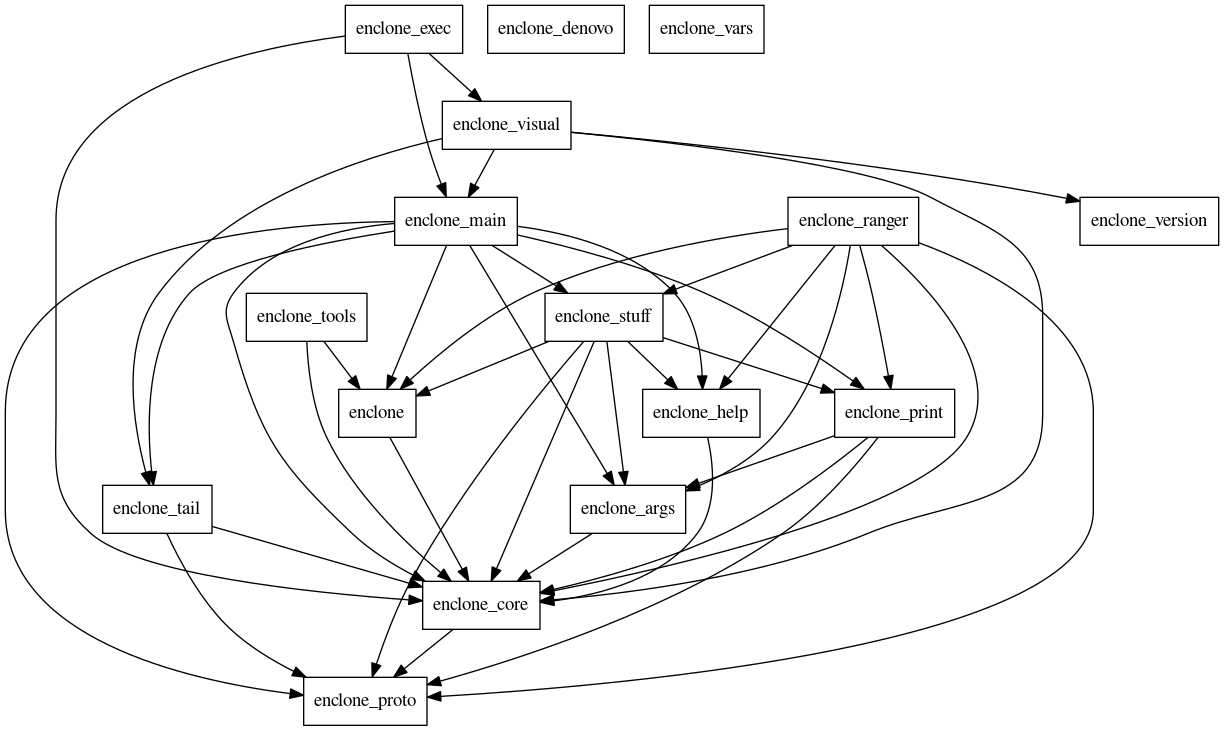
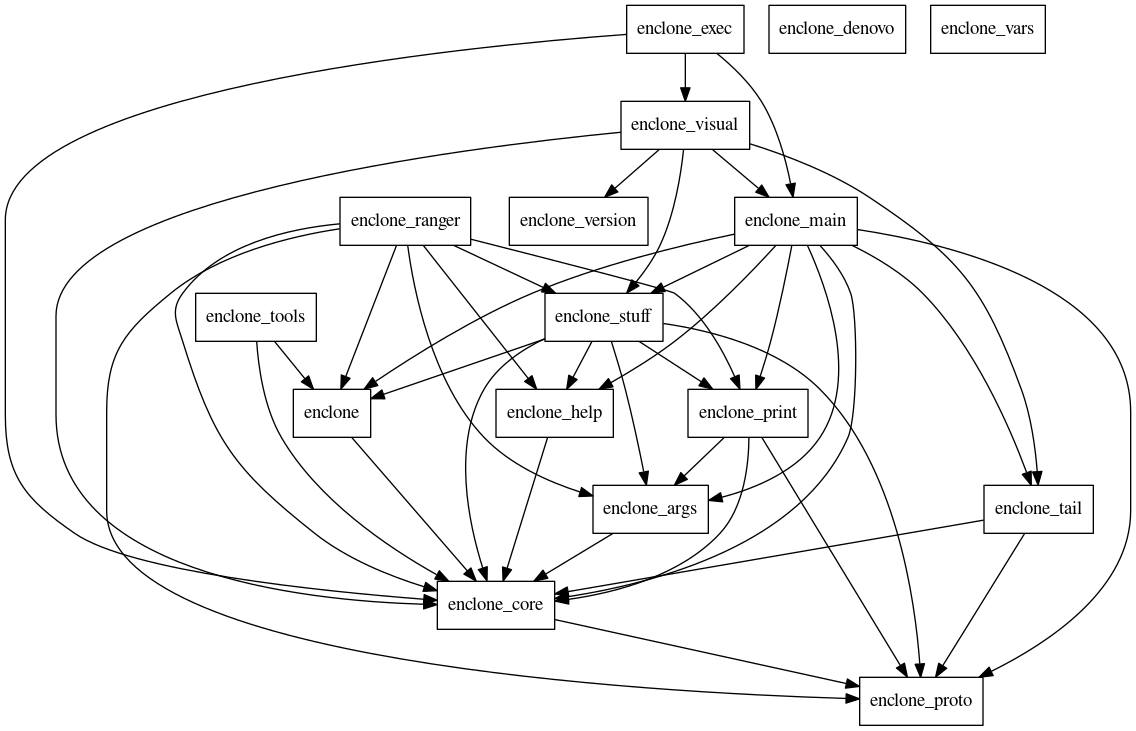
separate main_enclone_start; ./test passes

diff --git a/enclone_main/src/main_enclone.rs b/enclone_main/src/main_enclone.rs
@@ -7,17 +7,18 @@ use crate::blacklist::profiling_blacklist;
 use crate::determine_ref::determine_ref;
 use crate::sec_mem::test_sec_mem;
 use crate::setup::{critical_args, setup};
-use crate::start::*;
-use crate::stop::{main_enclone_stop, EncloneIntermediates};
-use crate::vars::match_vars;
+use crate::stop::main_enclone_stop;
 use enclone::innate::species;
 use enclone::secret::fetch_secmem;
 use enclone_args::load_gex::get_gex_info;
 use enclone_args::proc_args2::is_simple_arg;
 use enclone_args::proc_args_check::{check_gvars, check_lvars, check_pcols, get_known_features};
 use enclone_core::cell_color::CellColor;
-use enclone_core::defs::{EncloneControl, GexInfo};
+use enclone_core::defs::EncloneControl;
+use enclone_core::enclone_structs::*;
 use enclone_core::version_string;
+use enclone_stuff::start::*;
+use enclone_stuff::vars::match_vars;
 use io_utils::{open_for_read, open_userfile_for_read, path_exists};
 use itertools::Itertools;
 use pretty_trace::start_profiling;
@@ -31,41 +32,6 @@ use std::{
 use string_utils::TextUtils;
 use vdj_ann::refx;
 use vector_utils::{bin_member, next_diff, unique_sort};
-
-// ▓▓▓▓▓▓▓▓▓▓▓▓▓▓▓▓▓▓▓▓▓▓▓▓▓▓▓▓▓▓▓▓▓▓▓▓▓▓▓▓▓▓▓▓▓▓▓▓▓▓▓▓▓▓▓▓▓▓▓▓▓▓▓▓▓▓▓▓▓▓▓▓▓▓▓▓▓▓▓▓▓▓▓▓▓▓▓▓▓▓▓▓▓▓▓▓
-
-#[derive(Clone, Debug, Default)]
-pub struct MainEncloneOutput {
-    pub pics: Vec<String>, // clonotype tables
-    pub last_widths: Vec<u32>,
-    pub svgs: Vec<String>, // SVG objects
-    pub summary: String,   // summary
-    pub metrics: Vec<String>,
-    pub dataset_names: Vec<String>,
-    pub parseable_stdouth: bool,
-    pub noprint: bool,
-    pub noprintx: bool,
-    pub html: bool,
-    pub ngroup: bool,
-    pub pretty: bool,
-}
-
-#[derive(Default)]
-pub struct EncloneState {
-    pub inter: EncloneIntermediates,
-    pub outs: MainEncloneOutput,
-}
-
-#[derive(Default)]
-pub struct EncloneSetup {
-    pub ctl: EncloneControl,
-    pub ann: String,
-    pub gex_info: GexInfo,
-    pub tall: Option<Instant>,
-    pub refdata: RefData,
-    pub is_bcr: bool,
-    pub to_ref_index: HashMap<usize, usize>,
-}
 
 // ▓▓▓▓▓▓▓▓▓▓▓▓▓▓▓▓▓▓▓▓▓▓▓▓▓▓▓▓▓▓▓▓▓▓▓▓▓▓▓▓▓▓▓▓▓▓▓▓▓▓▓▓▓▓▓▓▓▓▓▓▓▓▓▓▓▓▓▓▓▓▓▓▓▓▓▓▓▓▓▓▓▓▓▓▓▓▓▓▓▓▓▓▓▓▓▓
 

diff --git a/enclone_stuff/src/start.rs b/enclone_stuff/src/start.rs
@@ -2,10 +2,13 @@
 //
 // See README for documentation.
 
+use crate::disintegrate::disintegrate_onesies;
+use crate::fcell::filter_by_fcell;
+use crate::filter_umi::filter_umi;
 use crate::flag_defective::flag_defective;
 use crate::inconsistent::test_vdj_gex_inconsistent;
-use crate::main_enclone::*;
-use crate::stop::{EncloneExacts, EncloneIntermediates};
+use crate::populate_features::populate_features;
+use crate::some_filters::some_filters;
 use debruijn::dna_string::DnaString;
 use enclone::allele::{find_alleles, sub_alts};
 use enclone::graph_filter::graph_filter;
@@ -16,12 +19,8 @@ use enclone::misc2::{check_for_barcode_reuse, find_exact_subclonotypes, search_f
 use enclone::misc3::sort_tig_bc;
 use enclone_args::read_json::parse_json_annotations_files;
 use enclone_core::defs::{CloneInfo, TigData};
+use enclone_core::enclone_structs::*;
 use enclone_print::loupe::make_donor_refs;
-use enclone_stuff::disintegrate::disintegrate_onesies;
-use enclone_stuff::fcell::filter_by_fcell;
-use enclone_stuff::filter_umi::filter_umi;
-use enclone_stuff::populate_features::populate_features;
-use enclone_stuff::some_filters::some_filters;
 use equiv::EquivRel;
 use io_utils::fwriteln;
 use std::{
@@ -32,30 +31,6 @@ use std::{
 };
 use stirling_numbers::stirling2_ratio_table;
 use vector_utils::{bin_member, erase_if, unique_sort};
-
-// ▓▓▓▓▓▓▓▓▓▓▓▓▓▓▓▓▓▓▓▓▓▓▓▓▓▓▓▓▓▓▓▓▓▓▓▓▓▓▓▓▓▓▓▓▓▓▓▓▓▓▓▓▓▓▓▓▓▓▓▓▓▓▓▓▓▓▓▓▓▓▓▓▓▓▓▓▓▓▓▓▓▓▓▓▓▓▓▓▓▓▓▓▓▓▓▓
-
-#[derive(Clone, Debug, Default)]
-pub struct MainEncloneOutput {
-    pub pics: Vec<String>, // clonotype tables
-    pub last_widths: Vec<u32>,
-    pub svgs: Vec<String>, // SVG objects
-    pub summary: String,   // summary
-    pub metrics: Vec<String>,
-    pub dataset_names: Vec<String>,
-    pub parseable_stdouth: bool,
-    pub noprint: bool,
-    pub noprintx: bool,
-    pub html: bool,
-    pub ngroup: bool,
-    pub pretty: bool,
-}
-
-#[derive(Default)]
-pub struct EncloneState {
-    pub inter: EncloneIntermediates,
-    pub outs: MainEncloneOutput,
-}
 
 // ▓▓▓▓▓▓▓▓▓▓▓▓▓▓▓▓▓▓▓▓▓▓▓▓▓▓▓▓▓▓▓▓▓▓▓▓▓▓▓▓▓▓▓▓▓▓▓▓▓▓▓▓▓▓▓▓▓▓▓▓▓▓▓▓▓▓▓▓▓▓▓▓▓▓▓▓▓▓▓▓▓▓▓▓▓▓▓▓▓▓▓▓▓▓▓▓
 

diff --git a/enclone_ranger/src/main_enclone.rs b/enclone_ranger/src/main_enclone.rs
@@ -5,7 +5,7 @@
 use self::refx::{make_vdj_ref_data_core, RefData};
 use crate::determine_ref::determine_ref;
 use crate::setup::{critical_args, setup};
-use crate::stop::{main_enclone_stop, EncloneExacts, EncloneIntermediates};
+use crate::stop::main_enclone_stop;
 use crate::vars::match_vars;
 use debruijn::dna_string::DnaString;
 use enclone::allele::{find_alleles, sub_alts};
@@ -19,7 +19,8 @@ use enclone::misc3::sort_tig_bc;
 use enclone_args::load_gex::get_gex_info;
 use enclone_args::proc_args_check::{check_gvars, check_lvars};
 use enclone_args::read_json::parse_json_annotations_files;
-use enclone_core::defs::{CloneInfo, EncloneControl, GexInfo, TigData};
+use enclone_core::defs::{CloneInfo, EncloneControl, TigData};
+use enclone_core::enclone_structs::*;
 use enclone_core::version_string;
 use enclone_print::loupe::make_donor_refs;
 use enclone_stuff::disintegrate::disintegrate_onesies;
@@ -39,41 +40,6 @@ use std::{
 use stirling_numbers::stirling2_ratio_table;
 use vdj_ann::refx;
 use vector_utils::{bin_member, erase_if, unique_sort};
-
-// ▓▓▓▓▓▓▓▓▓▓▓▓▓▓▓▓▓▓▓▓▓▓▓▓▓▓▓▓▓▓▓▓▓▓▓▓▓▓▓▓▓▓▓▓▓▓▓▓▓▓▓▓▓▓▓▓▓▓▓▓▓▓▓▓▓▓▓▓▓▓▓▓▓▓▓▓▓▓▓▓▓▓▓▓▓▓▓▓▓▓▓▓▓▓▓▓
-
-#[derive(Clone, Debug, Default)]
-pub struct MainEncloneOutput {
-    pub pics: Vec<String>, // clonotype tables
-    pub last_widths: Vec<u32>,
-    pub svgs: Vec<String>, // SVG objects
-    pub summary: String,   // summary
-    pub metrics: Vec<String>,
-    pub dataset_names: Vec<String>,
-    pub parseable_stdouth: bool,
-    pub noprint: bool,
-    pub noprintx: bool,
-    pub html: bool,
-    pub ngroup: bool,
-    pub pretty: bool,
-}
-
-#[derive(Default)]
-pub struct EncloneState {
-    pub inter: EncloneIntermediates,
-    pub outs: MainEncloneOutput,
-}
-
-#[derive(Default)]
-pub struct EncloneSetup {
-    pub ctl: EncloneControl,
-    pub ann: String,
-    pub gex_info: GexInfo,
-    pub tall: Option<Instant>,
-    pub refdata: RefData,
-    pub is_bcr: bool,
-    pub to_ref_index: HashMap<usize, usize>,
-}
 
 // ▓▓▓▓▓▓▓▓▓▓▓▓▓▓▓▓▓▓▓▓▓▓▓▓▓▓▓▓▓▓▓▓▓▓▓▓▓▓▓▓▓▓▓▓▓▓▓▓▓▓▓▓▓▓▓▓▓▓▓▓▓▓▓▓▓▓▓▓▓▓▓▓▓▓▓▓▓▓▓▓▓▓▓▓▓▓▓▓▓▓▓▓▓▓▓▓
 

diff --git a/enclone_main/src/stop.rs b/enclone_main/src/stop.rs
@@ -1,11 +1,10 @@
 // Copyright (c) 2021 10X Genomics, Inc. All rights reserved.
 
-use crate::main_enclone::{EncloneSetup, EncloneState, MainEncloneOutput};
 use crate::opt_d_val::make_opt_d_val;
 use crate::subset::subset_json;
-use enclone_core::defs::{CloneInfo, ColInfo, ExactClonotype, WALLCLOCK};
+use enclone_core::defs::{ColInfo, WALLCLOCK};
+use enclone_core::enclone_structs::*;
 use enclone_print::print_clonotypes::print_clonotypes;
-use enclone_proto::types::DonorReferenceItem;
 use enclone_tail::grouper::grouper;
 use enclone_tail::tail::tail_code;
 use io_utils::{dir_list, open_for_read, path_exists};
@@ -22,29 +21,6 @@ use std::{
     time::Instant,
 };
 use string_utils::TextUtils;
-
-// ▓▓▓▓▓▓▓▓▓▓▓▓▓▓▓▓▓▓▓▓▓▓▓▓▓▓▓▓▓▓▓▓▓▓▓▓▓▓▓▓▓▓▓▓▓▓▓▓▓▓▓▓▓▓▓▓▓▓▓▓▓▓▓▓▓▓▓▓▓▓▓▓▓▓▓▓▓▓▓▓▓▓▓▓▓▓▓▓▓▓▓▓▓▓▓▓
-
-#[derive(Default)]
-pub struct EncloneIntermediates {
-    pub setup: EncloneSetup,
-    pub ex: EncloneExacts,
-}
-
-#[derive(Default, Clone)]
-pub struct EncloneExacts {
-    pub to_bc: HashMap<(usize, usize), Vec<String>>,
-    pub exact_clonotypes: Vec<ExactClonotype>,
-    pub raw_joins: Vec<Vec<usize>>,
-    pub info: Vec<CloneInfo>,
-    pub orbits: Vec<Vec<i32>>,
-    pub vdj_cells: Vec<Vec<String>>,
-    pub join_info: Vec<(usize, usize, bool, Vec<u8>)>,
-    pub drefs: Vec<DonorReferenceItem>,
-    pub sr: Vec<Vec<f64>>,
-    pub fate: Vec<HashMap<String, String>>, // GETS MODIFIED SUBSEQUENTLY
-    pub is_bcr: bool,
-}
 
 // ▓▓▓▓▓▓▓▓▓▓▓▓▓▓▓▓▓▓▓▓▓▓▓▓▓▓▓▓▓▓▓▓▓▓▓▓▓▓▓▓▓▓▓▓▓▓▓▓▓▓▓▓▓▓▓▓▓▓▓▓▓▓▓▓▓▓▓▓▓▓▓▓▓▓▓▓▓▓▓▓▓▓▓▓▓▓▓▓▓▓▓▓▓▓▓▓
 

diff --git a/enclone_ranger/src/stop.rs b/enclone_ranger/src/stop.rs
@@ -1,37 +1,11 @@
 // Copyright (c) 2021 10X Genomics, Inc. All rights reserved.
 
-use crate::main_enclone::EncloneSetup;
-use enclone_core::defs::{CloneInfo, ColInfo, ExactClonotype};
+use enclone_core::defs::ColInfo;
+use enclone_core::enclone_structs::*;
 use enclone_print::print_clonotypes::print_clonotypes;
-use enclone_proto::types::DonorReferenceItem;
 use io_utils::{dir_list, path_exists};
 use rayon::prelude::*;
 use std::{collections::HashMap, env, thread, time};
-
-// ▓▓▓▓▓▓▓▓▓▓▓▓▓▓▓▓▓▓▓▓▓▓▓▓▓▓▓▓▓▓▓▓▓▓▓▓▓▓▓▓▓▓▓▓▓▓▓▓▓▓▓▓▓▓▓▓▓▓▓▓▓▓▓▓▓▓▓▓▓▓▓▓▓▓▓▓▓▓▓▓▓▓▓▓▓▓▓▓▓▓▓▓▓▓▓▓
-
-#[derive(Default)]
-pub struct EncloneIntermediates {
-    pub setup: EncloneSetup,
-    pub ex: EncloneExacts,
-}
-
-#[derive(Default, Clone)]
-pub struct EncloneExacts {
-    pub to_bc: HashMap<(usize, usize), Vec<String>>,
-    pub exact_clonotypes: Vec<ExactClonotype>,
-    pub raw_joins: Vec<Vec<usize>>,
-    pub info: Vec<CloneInfo>,
-    pub orbits: Vec<Vec<i32>>,
-    pub vdj_cells: Vec<Vec<String>>,
-    pub join_info: Vec<(usize, usize, bool, Vec<u8>)>,
-    pub drefs: Vec<DonorReferenceItem>,
-    pub sr: Vec<Vec<f64>>,
-    pub fate: Vec<HashMap<String, String>>, // GETS MODIFIED SUBSEQUENTLY
-    pub is_bcr: bool,
-}
-
-// ▓▓▓▓▓▓▓▓▓▓▓▓▓▓▓▓▓▓▓▓▓▓▓▓▓▓▓▓▓▓▓▓▓▓▓▓▓▓▓▓▓▓▓▓▓▓▓▓▓▓▓▓▓▓▓▓▓▓▓▓▓▓▓▓▓▓▓▓▓▓▓▓▓▓▓▓▓▓▓▓▓▓▓▓▓▓▓▓▓▓▓▓▓▓▓▓
 
 pub fn main_enclone_stop(mut inter: EncloneIntermediates) -> Result<(), String> {
     // Unpack inputs.

diff --git a/enclone_core/src/enclone_structs.rs b/enclone_core/src/enclone_structs.rs
@@ -1,0 +1,61 @@
+// Copyright (c) 2021 10X Genomics, Inc. All rights reserved.
+
+use self::refx::RefData;
+use crate::defs::{CloneInfo, EncloneControl, ExactClonotype, GexInfo};
+use enclone_proto::types::DonorReferenceItem;
+use std::{collections::HashMap, time::Instant};
+use vdj_ann::refx;
+
+#[derive(Clone, Debug, Default)]
+pub struct MainEncloneOutput {
+    pub pics: Vec<String>, // clonotype tables
+    pub last_widths: Vec<u32>,
+    pub svgs: Vec<String>, // SVG objects
+    pub summary: String,   // summary
+    pub metrics: Vec<String>,
+    pub dataset_names: Vec<String>,
+    pub parseable_stdouth: bool,
+    pub noprint: bool,
+    pub noprintx: bool,
+    pub html: bool,
+    pub ngroup: bool,
+    pub pretty: bool,
+}
+
+#[derive(Default)]
+pub struct EncloneState {
+    pub inter: EncloneIntermediates,
+    pub outs: MainEncloneOutput,
+}
+
+#[derive(Default)]
+pub struct EncloneSetup {
+    pub ctl: EncloneControl,
+    pub ann: String,
+    pub gex_info: GexInfo,
+    pub tall: Option<Instant>,
+    pub refdata: RefData,
+    pub is_bcr: bool,
+    pub to_ref_index: HashMap<usize, usize>,
+}
+
+#[derive(Default)]
+pub struct EncloneIntermediates {
+    pub setup: EncloneSetup,
+    pub ex: EncloneExacts,
+}
+
+#[derive(Default, Clone)]
+pub struct EncloneExacts {
+    pub to_bc: HashMap<(usize, usize), Vec<String>>,
+    pub exact_clonotypes: Vec<ExactClonotype>,
+    pub raw_joins: Vec<Vec<usize>>,
+    pub info: Vec<CloneInfo>,
+    pub orbits: Vec<Vec<i32>>,
+    pub vdj_cells: Vec<Vec<String>>,
+    pub join_info: Vec<(usize, usize, bool, Vec<u8>)>,
+    pub drefs: Vec<DonorReferenceItem>,
+    pub sr: Vec<Vec<f64>>,
+    pub fate: Vec<HashMap<String, String>>, // GETS MODIFIED SUBSEQUENTLY
+    pub is_bcr: bool,
+}

diff --git a/enclone_visual/src/enclone_server.rs b/enclone_visual/src/enclone_server.rs
@@ -8,11 +8,12 @@ use crate::proto::{
 use crate::*;
 use chrono::prelude::*;
 use enclone_core::combine_group_pics::*;
+use enclone_core::enclone_structs::*;
 use enclone_core::logging::*;
 use enclone_core::parse_bsv;
 use enclone_main::main_enclone::*;
-use enclone_main::start::main_enclone_start;
 use enclone_main::stop::*;
+use enclone_stuff::start::main_enclone_start;
 use enclone_version::*;
 use flate2::write::GzEncoder;
 use flate2::Compression;

diff --git a/enclone_stuff/src/lib.rs b/enclone_stuff/src/lib.rs
@@ -4,8 +4,12 @@ pub mod disintegrate;
 pub mod doublets;
 pub mod fcell;
 pub mod filter_umi;
+pub mod flag_defective;
+pub mod inconsistent;
 pub mod merge_onesies;
 pub mod populate_features;
 pub mod some_filters;
 pub mod split_orbits;
+pub mod start;
+pub mod vars;
 pub mod weak_chains;

diff --git a/enclone_main/src/lib.rs b/enclone_main/src/lib.rs
@@ -2,16 +2,12 @@
 
 pub mod blacklist;
 pub mod determine_ref;
-pub mod flag_defective;
-pub mod inconsistent;
 pub mod main_enclone;
 pub mod opt_d_val;
 pub mod sec_mem;
 pub mod setup;
-pub mod start;
 pub mod stop;
 pub mod subset;
-pub mod vars;
 
 use std::sync::atomic::AtomicBool;
 

diff --git a/enclone_core/src/lib.rs b/enclone_core/src/lib.rs
@@ -6,6 +6,7 @@ pub mod cell_color;
 pub mod combine_group_pics;
 pub mod convert_svg_to_png;
 pub mod defs;
+pub mod enclone_structs;
 pub mod join_one;
 pub mod linear_condition;
 pub mod logging;
